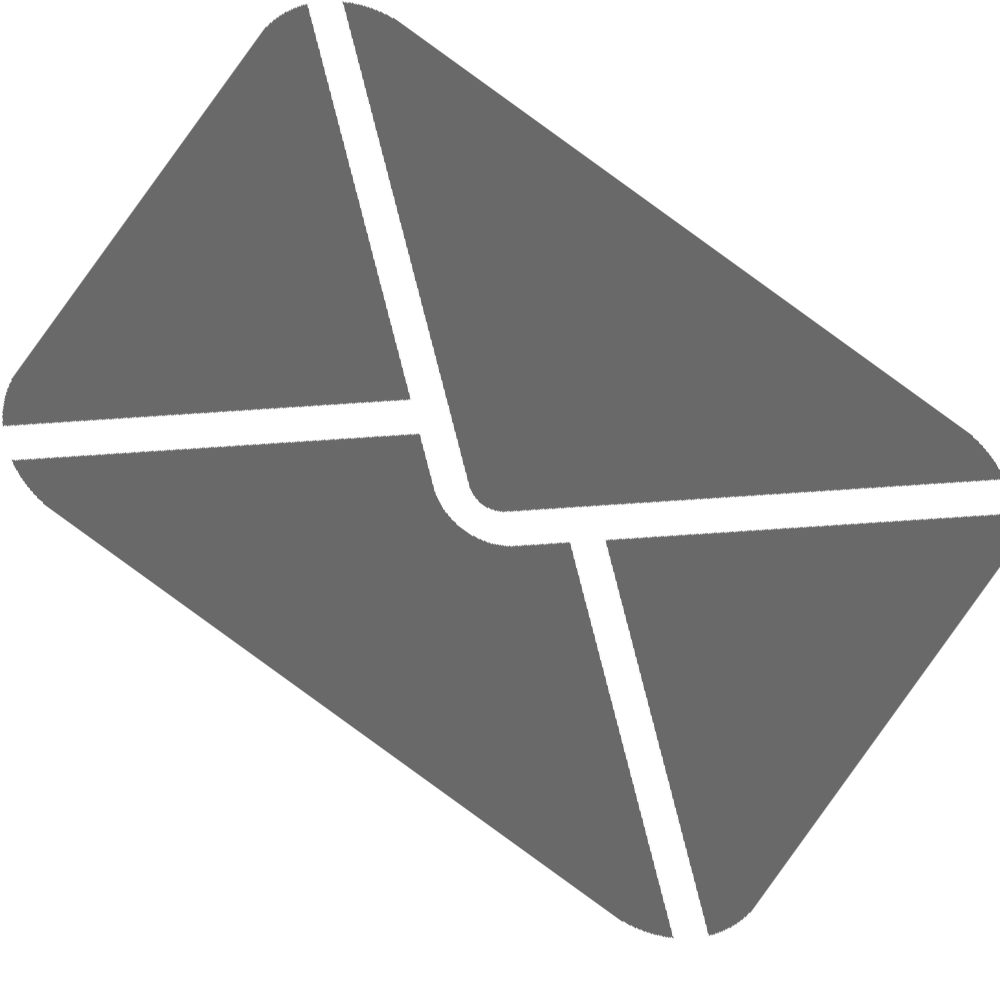
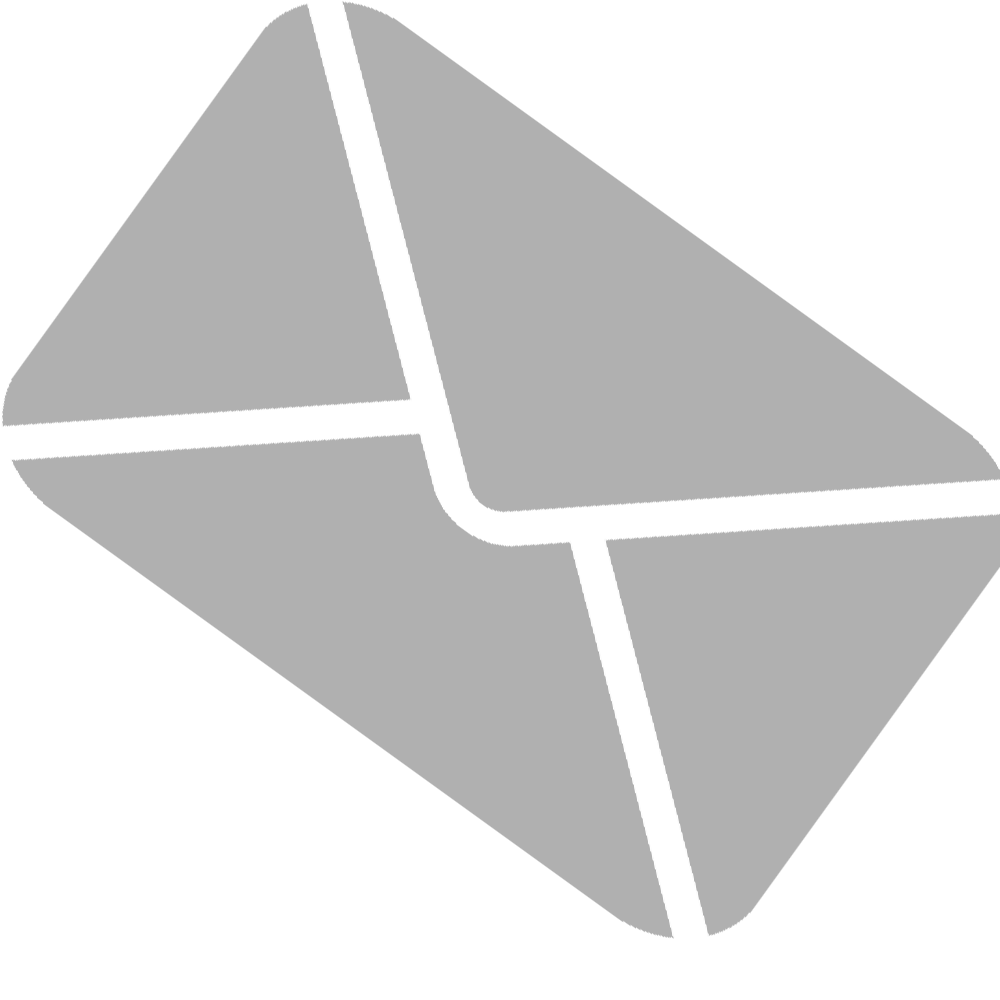
fixes, design update

diff --git a/templates/posts/main.html b/templates/posts/main.html
@@ -7,6 +7,7 @@
 
 {% block main %}
 <div class="main__stories">
+        <h1 style="font-weight: 900; margin-botton: 30px;" class="shine-text">lit.fear</h1>
     {% if not request.user.is_authenticated %}
         <p>
             Рады, что вы попали на наш сайт: вы сможете прочитать множество страшных рассказов
@@ -18,7 +19,7 @@
     <div class="main__stories_new_stories">
         <div class="main__stories_new_stories-header">
             <div class="header__title">
-                <h2>Новинки</h2>
+                <h3>Новинки</h3>
             </div>
             
             <div style="text-align: end;width: 100%;" class="header__link">
@@ -35,7 +36,7 @@
                     <img class="row" src="{{ story.get_cover }}" alt="Image here">
 
                     <div class="story__body row">
-                        <h3 style="word-break: break-all;">{{ story.title }}</h3>
+                        <h4 style="word-break: break-all;">{{ story.title }}</h4>
                         <p>{{ story.description|truncatechars:"30" }}</p>
                     </div>
                 </a>
@@ -48,7 +49,7 @@
             class="man__stories_news-header">
             
             <div class="header__title">
-                <h2 style="display: block; width: 100%;">Новости</h2>
+                <h3 style="display: block; width: 100%;">Новости</h3>
             </div>
 
             <div style="text-align: end;width: 100%;" class="header__link">
@@ -65,7 +66,7 @@
                     <img class="row" src="{{ post.cover.url }}" alt="Image here">
 
                     <div class="story__body row">
-                        <h3>{{ post.title }}</h3>
+                        <h4>{{ post.title }}</h4>
                     </div>
                 </a>
             {% endfor %}

diff --git a/static/main.css b/static/main.css
@@ -65,6 +65,42 @@ body {
   background-color: #0c0213;
 }
 
+.shine-text {
+  position: relative;
+  display: inline-block;
+  font-size: 48px;
+  font-weight: bold;
+  overflow: hidden;
+}
+
+.shine-text::after {
+  content: '';
+  position: absolute;
+  top: 0;
+  left: -100%;
+  width: 100px;              /* ширина блика */
+  height: 100%;
+  background: linear-gradient(
+    90deg,
+    transparent 0%,
+    rgba(255, 255, 255, 0.8) 50%,
+    transparent 100%
+  );
+  animation: shine 3s ease-in-out infinite;
+}
+
+@keyframes shine {
+  0% {
+    left: -100px;
+  }
+  20% {
+    left: 100%;
+  }
+  100% {
+    left: 100%;
+  }
+}
+
 .link_purple {
   text-decoration: none;
   border: 1px solid #875ca7;
@@ -78,6 +114,23 @@ body {
     background-color: #875ca7;
     color: rgb(235, 235, 235);
 }
+
+
+.link_warning {
+  text-decoration: none;
+  border: 1px solid #c7c16a;
+  padding: 5px 15px;
+  color: #c7c16a;
+  border-radius: 5px;
+}
+
+.link_warning:hover {
+    transition: .4s;
+    background-color: #c7c16a;
+    color: rgb(235, 235, 235);
+}
+
+
 
 .btn_link {
   border: 1px solid #875ca7;

diff --git a/templates/email/user_password_change.html b/templates/email/user_password_change.html
@@ -7,9 +7,11 @@
 {% block main %}
 <div class="image" style="height: 85vh; background-image: url('/static/defaults/key.png'); background-position: left; background-repeat: no-repeat; background-size: contain; display: flex; align-items: center; flex-direction: column; justify-content: center;">
     <div style="width: 100%;" class="info">
-        <form method="post">
-            <label for="password">Новый пароль:</label>
-            <input type="password" id="password" name="password">
+        <h1 style="margin-bottom: 30px;">Введите новый пароль</h1>
+        <form method="post" style="">
+            <input type="password" id="password" class="date_input" name="password" placeholder="Новый пароль">
+            <br>
+            <br>
             <input type="submit" value="Подтвердить">
         </form>
     </div> 

diff --git a/templates/users/update.html b/templates/users/update.html
@@ -37,6 +37,12 @@
             <input type="submit" value="Сохранить">
 
             <a class="link_purple" href="{% url "us_delete" form.username.value %}">Удалить профиль</a>
+           
+            {% if not request.user.email_verified %}
+                <a class="link_warning" href="{% url "verify_email" %}">Подтвердить почту</a> 
+            {% else %}
+                <a class="link_purple" href="{% url "change_password" %}">Изменить пароль</a> 
+            {% endif %}
             
         </div>
 

diff --git a/templates/users/base.html b/templates/users/base.html
@@ -59,6 +59,9 @@
             {% if request.user.is_authenticated %}
                 {% if request.user == user %}
                     <a href="{% url "us_update" user.slug %}">Изменить</a>
+                    {% if not request.user.email_verified %}
+                        <img src="/static/defaults/warn.png" alt=":warning:" width="17px" height="17px">
+                    {% endif %}
                 {% endif %}
 
                 {% if user != request.user %}

diff --git a/templates/users/profile.html b/templates/users/profile.html
@@ -36,9 +36,6 @@
         {% else %}
             <p style="color: #827688;; font-style: italic;">
                 Пока что, тут пусто...
-                <a href="{% url "verify_email" %}">Подтвердите свой email</a>
-                <a href="{% url "change_password" %}">Изменить пароль</a>
-            </p>
         {% endif %}
     </div>
 {% endblock profile_body %}

diff --git a/users/forms.py b/users/forms.py
@@ -29,4 +29,4 @@ class RegisterForm(forms.ModelForm):
             "bio": forms.Textarea(attrs={"placeholder": "Напишите пару слов о себе: чем увлекаетесь, что пишите или что читаете!"}),
             "birthday": forms.DateInput(attrs={"placeholder": "Дата рождения"}),
             "password": forms.PasswordInput(attrs={"placeholder": "Пароль"}),
-        }  # add date choice in form (?: "birthday": forms.DateInput())
+        }
